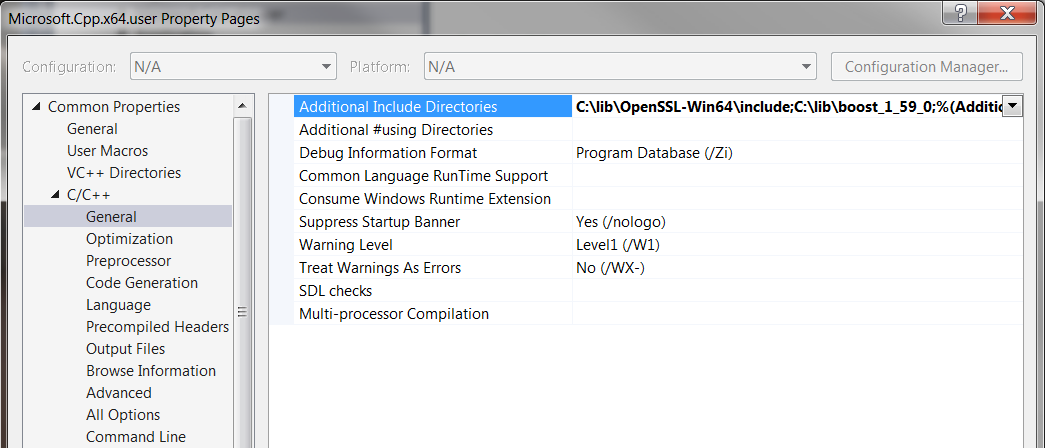
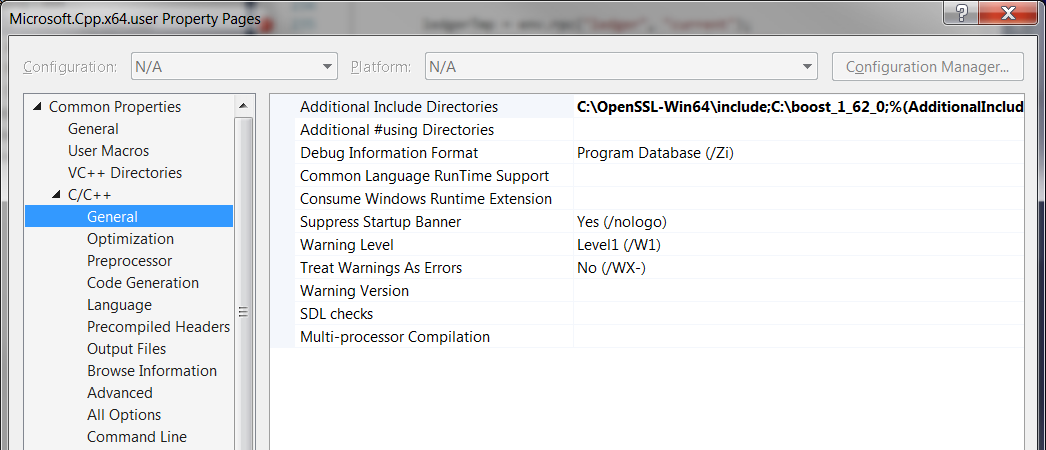
Support parallel 64- and 32-bit boost binaries (RIPD-1317):
* CMake and scons
* Update Visual Studio build docs
* Cache Appveyor PIP downloads for scons builds
* Rename the CMakeFuncs `find_` functions to `use_`

diff --git a/Builds/VisualStudio2015/README.md b/Builds/VisualStudio2015/README.md
@@ -17,7 +17,7 @@ software components:
 * [Google Protocol Buffers Compiler](README.md#install-google-protocol-buffers-compiler)
 * (Optional) [Python and Scons](README.md#optional-install-python-and-scons)
 * [OpenSSL Library](README.md#install-openssl)
-* [Boost 1.59 library](README.md#build-boost)
+* [Boost library](README.md#build-boost)
 * [Node.js](README.md#install-nodejs)
 
 ## Install Software
@@ -84,8 +84,8 @@ for Visual Studio 2015 support.
 [Download OpenSSL.](http://slproweb.com/products/Win32OpenSSL.html)
 There will be four variants available:
 
-1. 64-bit. Use this if you are running 64-bit windows. As of this writing, the link is called: "Win64 OpenSSL v1.0.2d".
-2. 64-bit light - Don't use this. It is missing files needed to build rippled. As of this writing, the link is called: "Win64 OpenSSL v1.0.2d Light"
+1. 64-bit. Use this if you are running 64-bit windows. As of this writing, the link is called: "Win64 OpenSSL v1.0.2j".
+2. 64-bit light - Don't use this. It is missing files needed to build rippled. As of this writing, the link is called: "Win64 OpenSSL v1.0.2j Light"
 
 Run the installer, and choose an appropriate location for your OpenSSL
 installation. In this guide we use **C:\lib\OpenSSL-Win64** as the
@@ -108,8 +108,13 @@ unpacking it, open a **Developer Command Prompt** for
 Visual Studio, change to the directory containing boost, then
 bootstrap the build tools:
 
+(As of this writing, the most recent version of boost is 1.62.0, which
+will unpack into a directory named `boost_1_62_0`. For higher versions
+of boost, adjust the directories provided in these examples as
+appropriate.)
+
 ```powershell
-cd C:\lib\boost_1_59_0
+cd C:\lib\boost_1_62_0
 bootstrap
 ```
 
@@ -119,7 +124,7 @@ affected by changes in outside files. Therefore, it is necessary to build the
 required boost static libraries using this command:
 
 ```powershell
-bjam --toolset=msvc-14.0 --build-type=complete variant=debug,release link=static runtime-link=static address-model=64
+bjam --toolset=msvc-14.0 address-model=64 architecture=x86 link=static threading=multi runtime-link=shared,static stage --stagedir=stage64
 ```
 
 Building the boost libraries may take considerable time. When the build process
@@ -161,7 +166,7 @@ git checkout master
 ### Configure Library Paths
 
 Open the solution file located at **Builds/Visual Studio 2015/ripple.sln**
-and select the "View->Other Windows->Property Manager" to bring up the Property Manager.
+and select the "View->Property Manager" to bring up the Property Manager.
 Expand the *debug | x64* section and
 double click the *Microsoft.Cpp.x64.user* property sheet to bring up the
 *Property Pages* dialog. These are global properties applied to all
